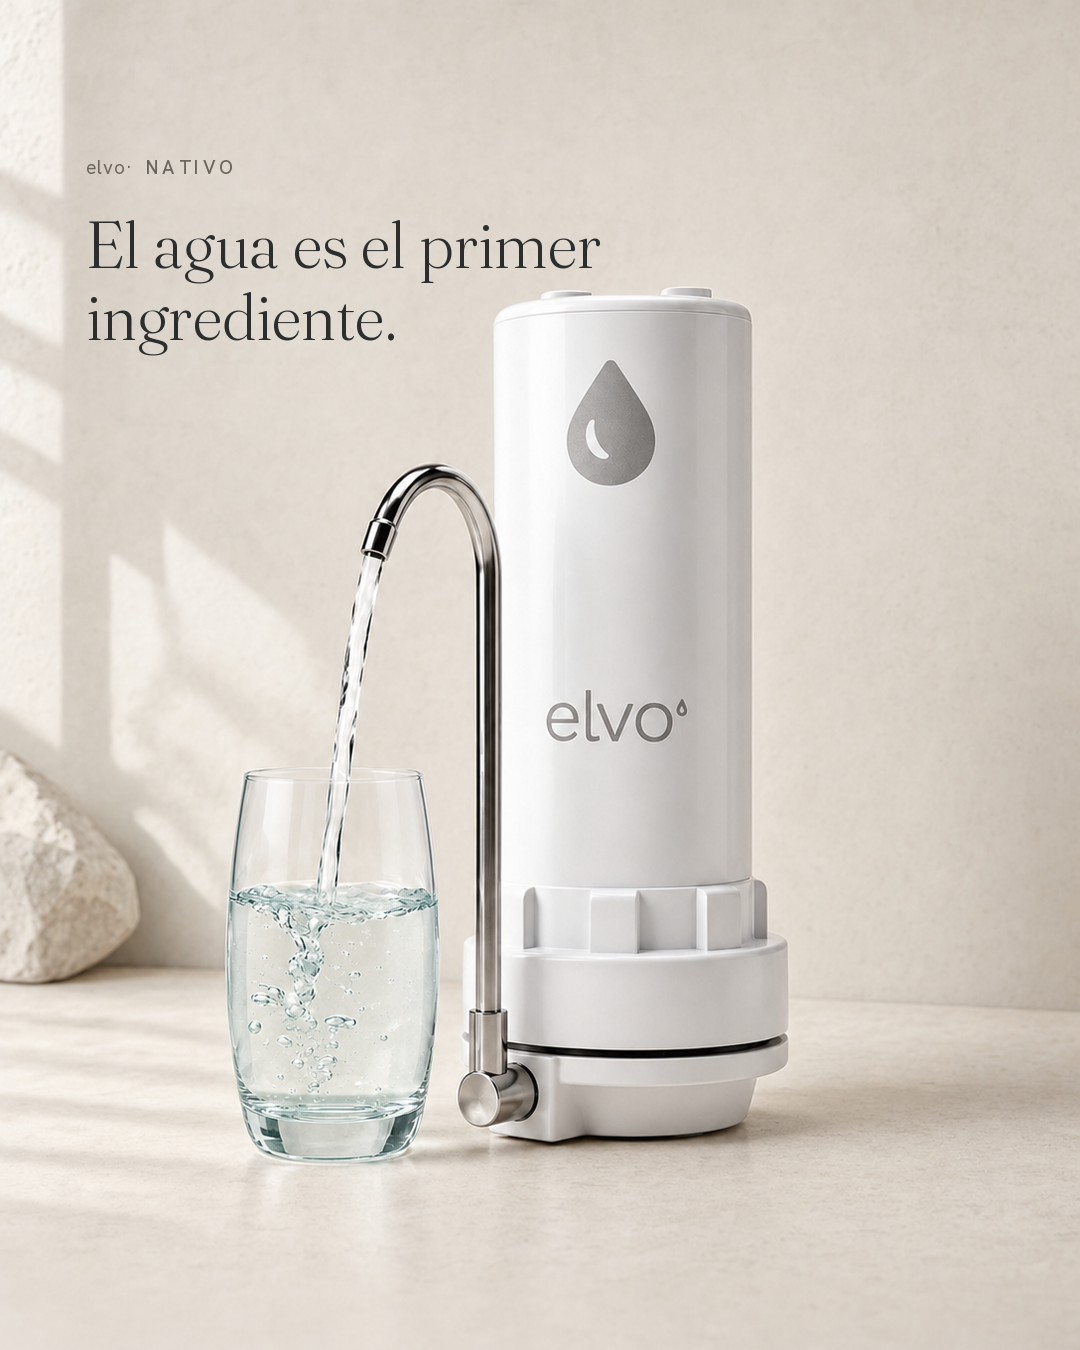
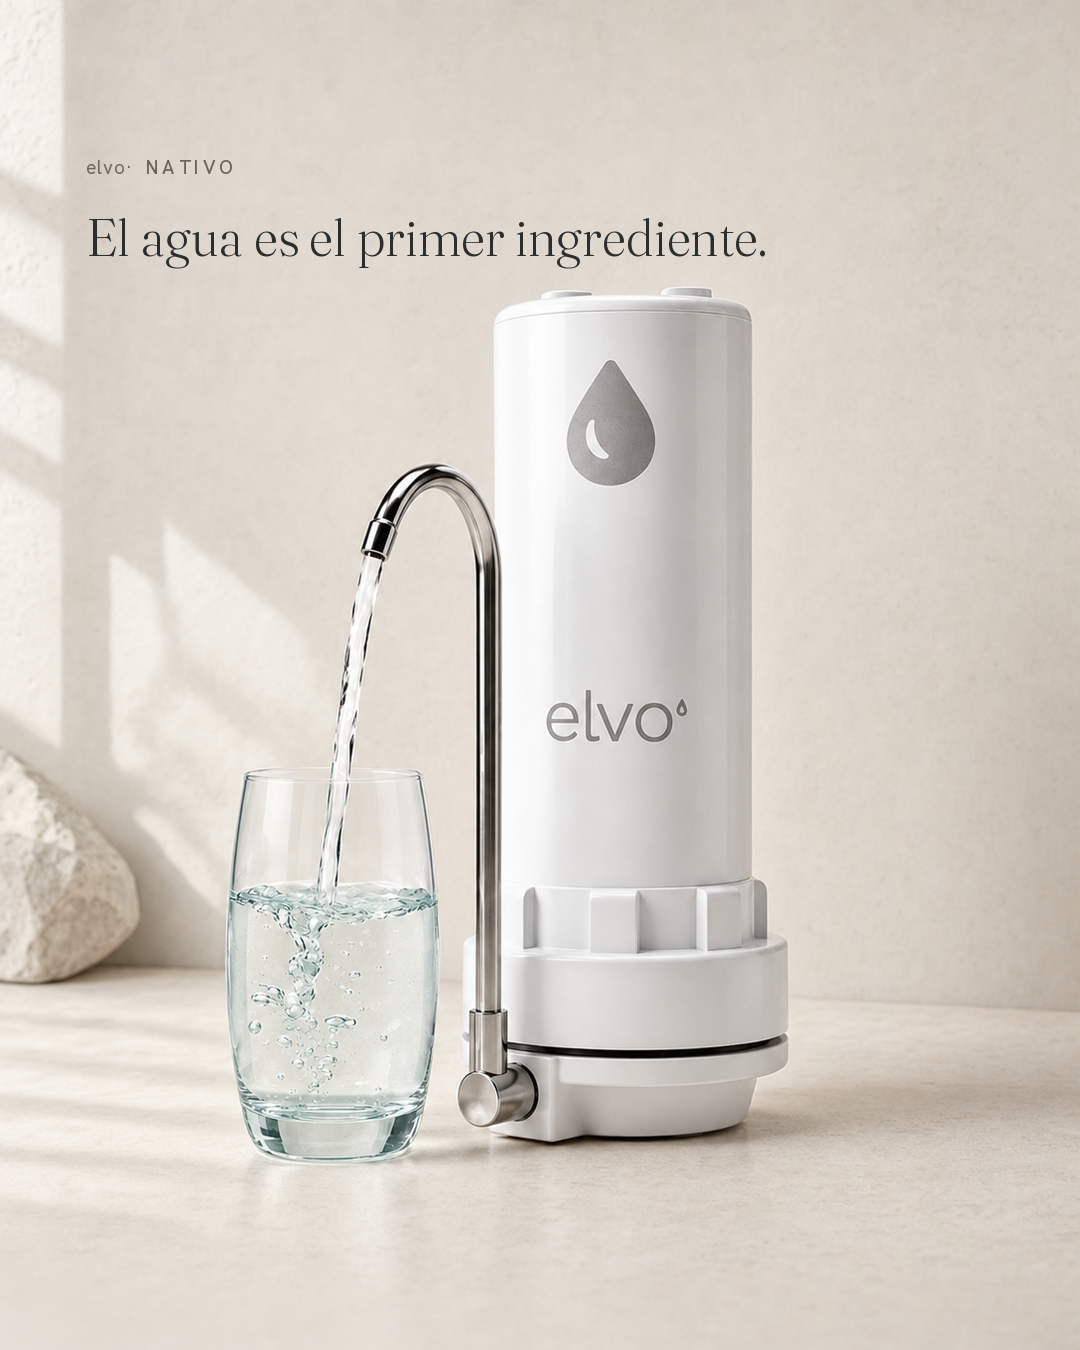
Instagram IA: lote 1 (p19, p21, p22, p20, p23, p24) con texto compuesto
Claude-Session: https://claude.ai/code/session_01S1zPvouaZuaQ7647Wi13Ea

Changed region(s): [[0.0611, 0.1556, 0.7028, 0.28]]

diff --git a/.claude/skills/static-ads/scripts/compose-ig.py b/.claude/skills/static-ads/scripts/compose-ig.py
@@ -17,6 +17,8 @@ W, H = 1080, 1350
 M = int(W * 0.08)
 INK = {"light": ("#2B2E2D", "#6B665D"), "dark": ("#EAE7E0", "#9A948A")}  # (titular, etiqueta)
 
+SIZE = {"p18": 52}  # tamaño del titular si el default roza el producto
+
 # id: (titular, producto de la etiqueta o None, tono, posición)
 TEXTS = {
     "p18": ("El agua es el primer ingrediente.", "NATIVO", "light", "top"),
@@ -24,7 +26,7 @@ TEXTS = {
     "p01": ("Lo que el agua toca.", None, "light", "top"),
     "p19": ("Agua de reserva en casa.", "ALIVIO", "light", "top"),
     "p21": ("Un alivio cuando no hay agua.", "ALIVIO", "light", "top"),
-    "p22": ("El té también empieza en el agua.", None, "light", "top"),
+    "p22": ("El té también\nempieza en el agua.", None, "light", "top"),
     "p20": ("Cinco etapas.", None, "dark", "top"),
     "p23": ("Fría o caliente, un solo gesto.", "CERO", "light", "top"),
     "p24": ("Fría. Caliente.", None, "dark", "top"),
@@ -69,9 +71,10 @@ def compose(i):
     im = Image.open(src).convert("RGB").resize((W, H), Image.LANCZOS)
     d = ImageDraw.Draw(im)
     ink, soft = INK[tone]
-    hf, lf = font("Fraunces-Light.ttf", 64), font("HankenGrotesk-Medium.ttf", 19)
-    lines = wrap(d, head, hf, W - 2 * M - 120)
-    lh = int(64 * 1.14)
+    fs = SIZE.get(i, 64)
+    hf, lf = font("Fraunces-Light.ttf", fs), font("HankenGrotesk-Medium.ttf", 19)
+    lines = [w for part in head.split("\n") for w in wrap(d, part, hf, W - 2 * M - 120)]
+    lh = int(fs * 1.14)
     block = (50 if prod else 0) + len(lines) * lh
     y = int(H * 0.115) if pos == "top" else int(H * 0.885) - block
     if prod:
